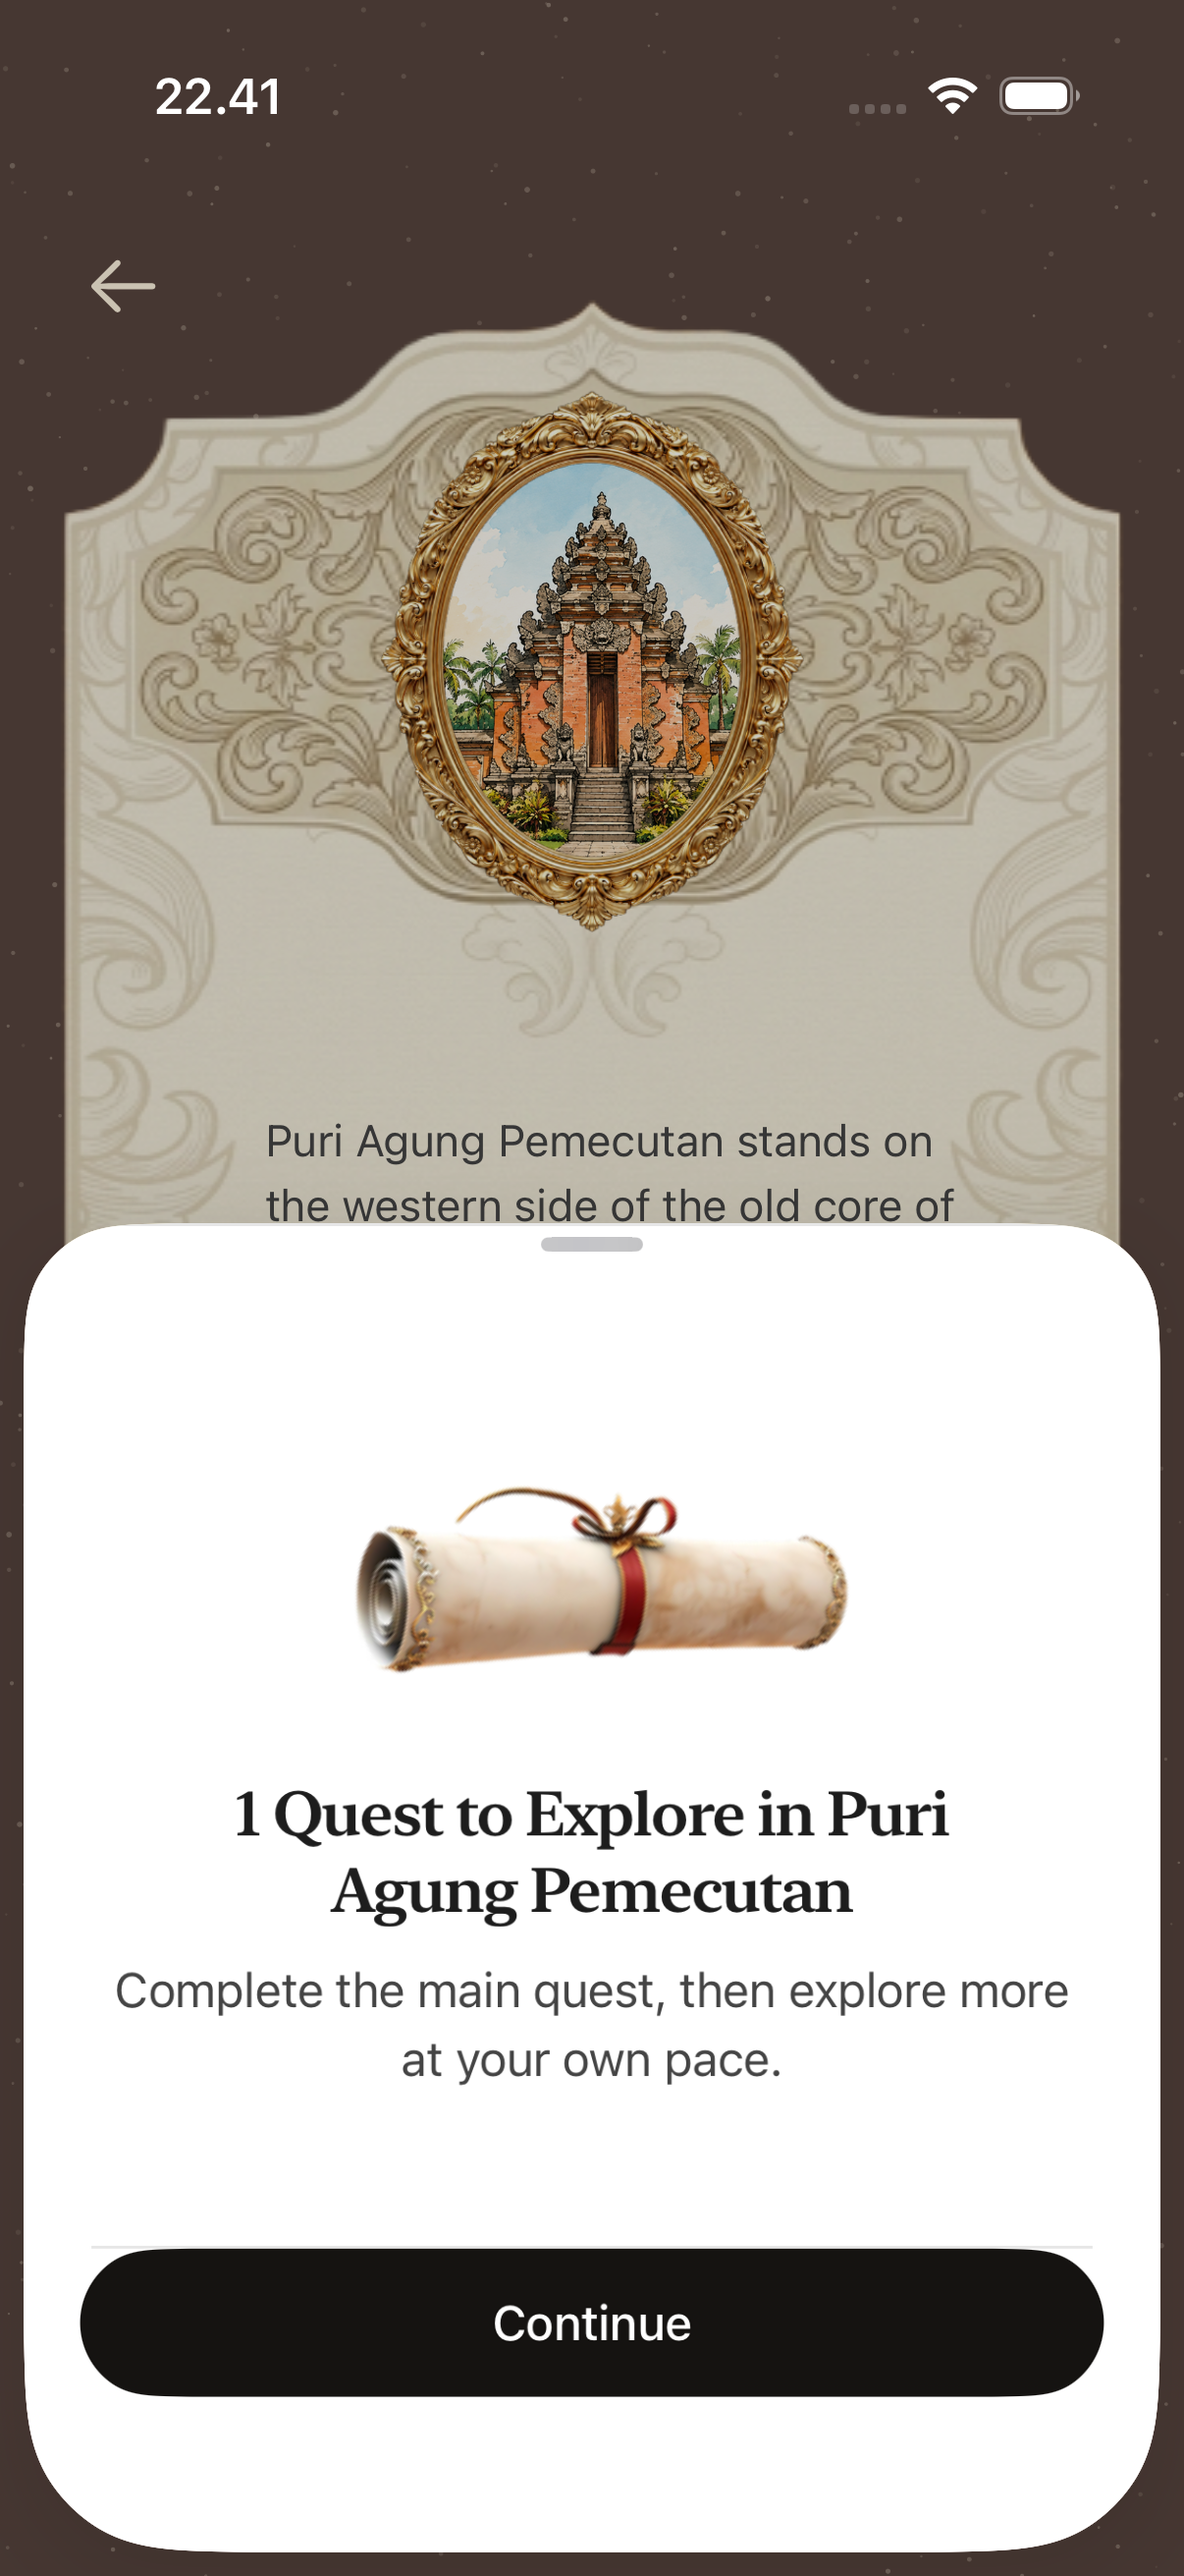
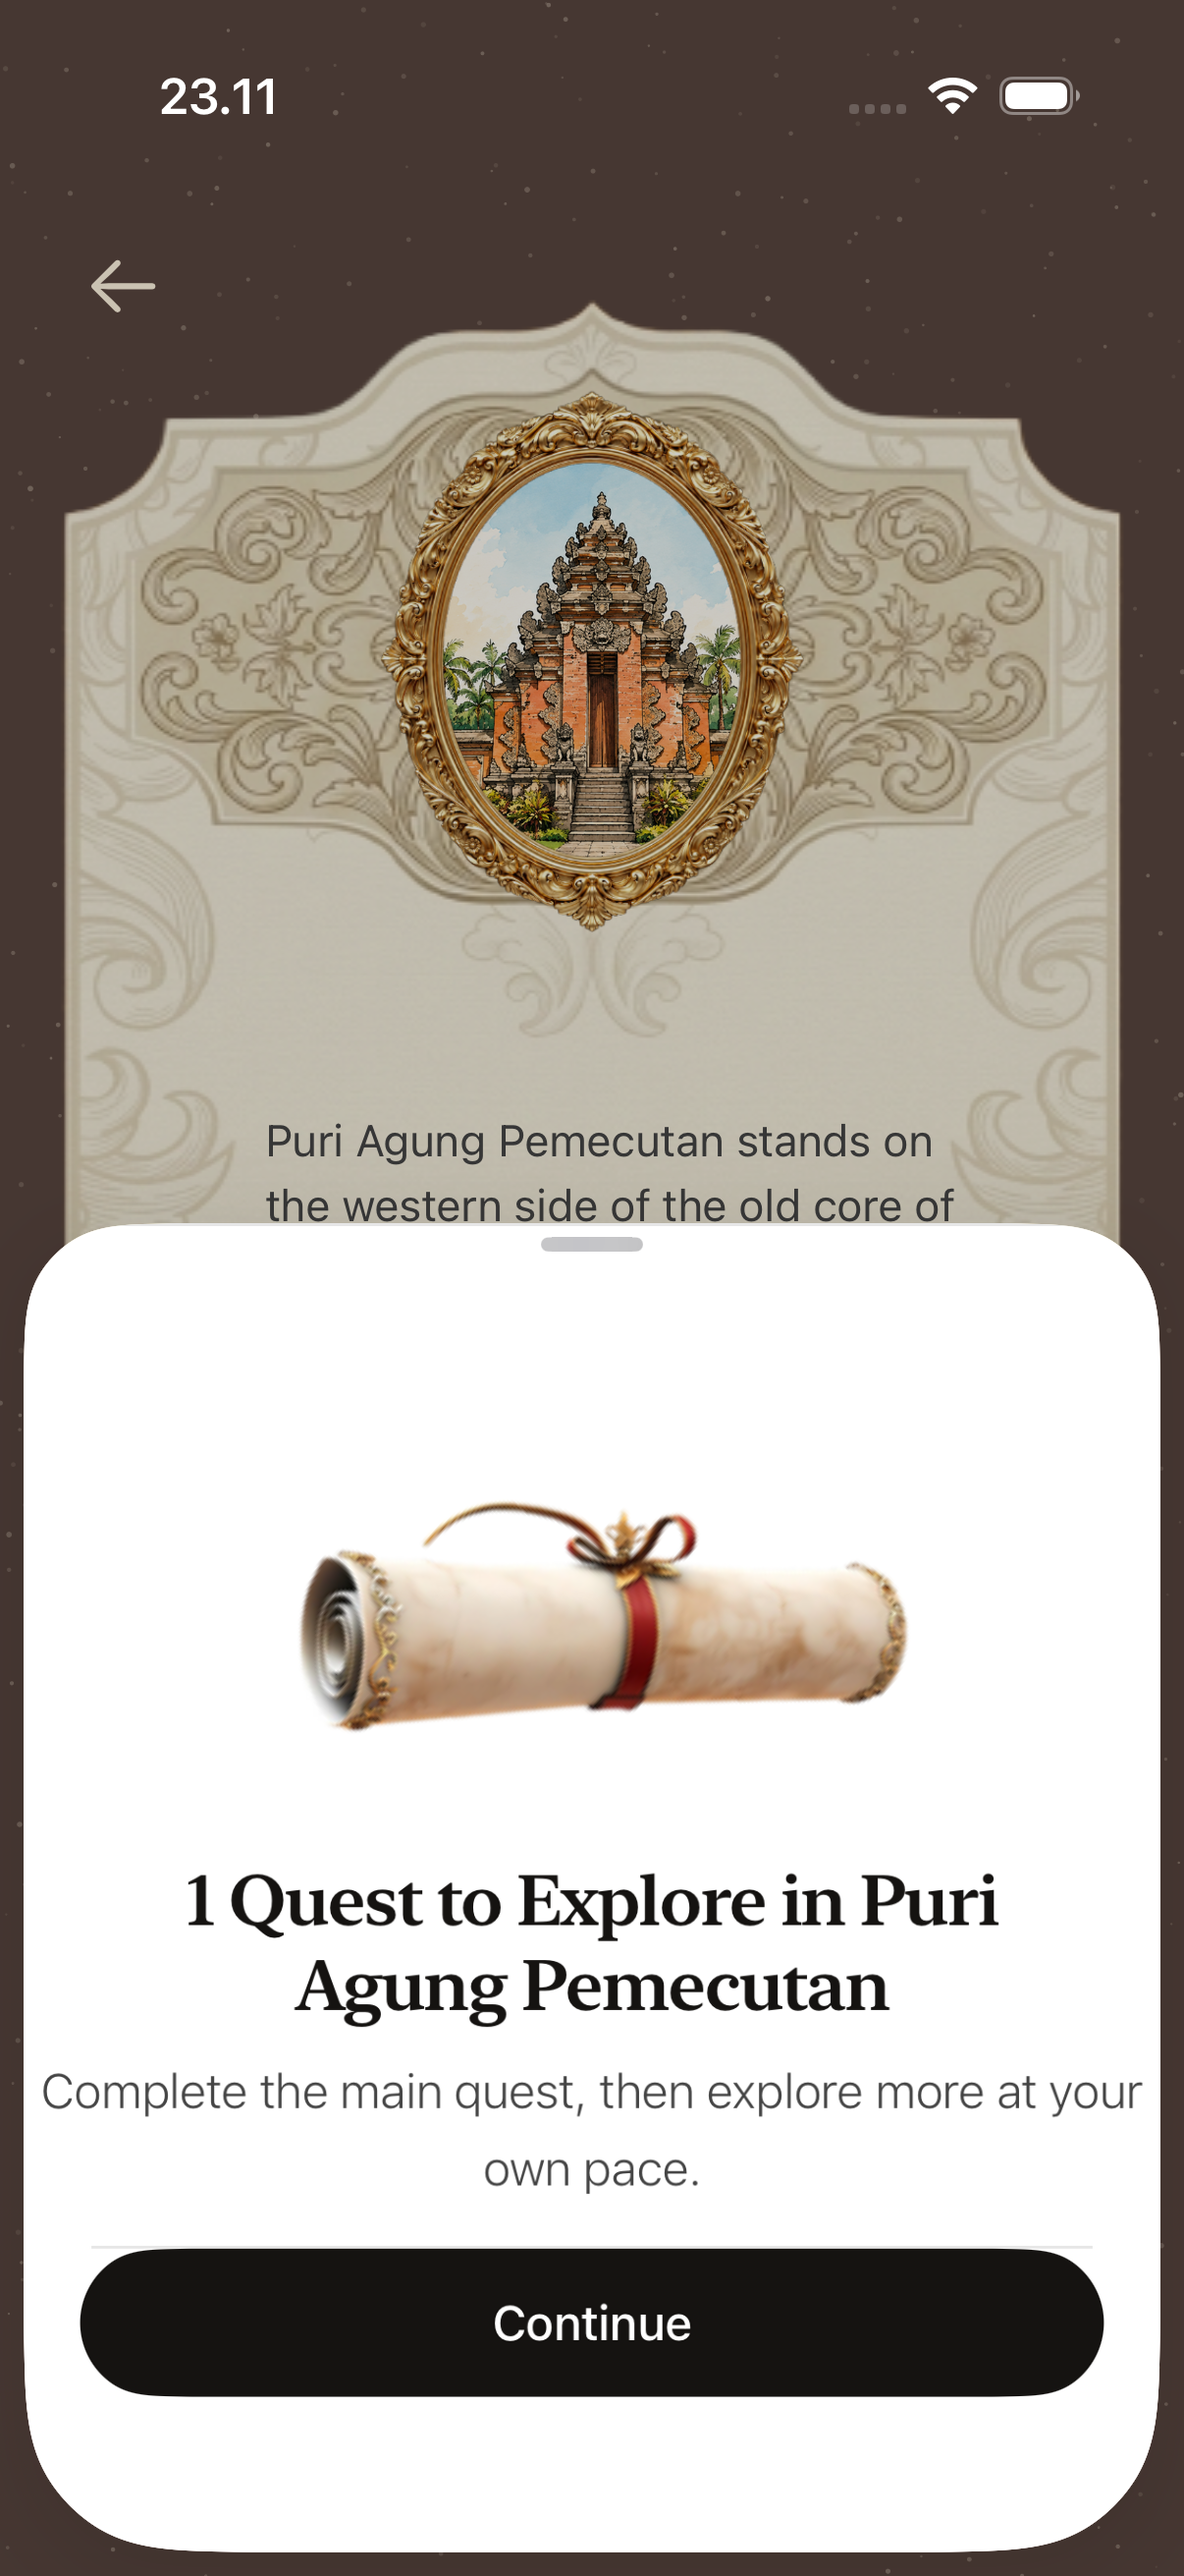
Make the availability sheet frame-exact: full-size scroll, frame type
Owner instruction of 2026-08-23 ("need to follow all even the text,
weight, all"). The scroll returns to the frame's full 194 points — the
268 x 267 rotated bounding box — with the headline pulled up the
frame's 56, and the Middle block's 12/2 rhythm replaces the scaled
23/45. The headline is New York Semibold 25 with -0.5 tracking in the
frame's own #151311 (not inkDark #1D1D1D) on a fixed 308 column; the
subtitle is SF Pro 17 Light with 1.4 leading in inkBody #444444.
@ScaledMetric backs both sizes so Dynamic Type still moves them — a
walker at the largest sizes drags to .large, which stays offered.

Verified on iPhone 17 / iOS 26.5; screenshot replaced, capture test
deleted with the commit.

diff --git a/challange-5/challange-5/Features/QuestRun/QuestAvailabilityScreen.swift b/challange-5/challange-5/Features/QuestRun/QuestAvailabilityScreen.swift
@@ -3,9 +3,9 @@ import DesignSystem
 import SwiftUI
 import UIStringsKit
 
-/// `921:3851` ("Quest - Card") — the sheet reached straight off a checkpoint's first explanation
-/// (the place notice at a sacred Place, the story reveal everywhere else), naming how many quests
-/// stand at this place before the sealed scroll opens the walk itself.
+/// `921:3851`/`921:3462` ("Quest - Card") — the sheet reached straight off a checkpoint's first
+/// explanation (the place notice at a sacred Place, the story reveal everywhere else), naming how
+/// many quests stand at this place before the sealed scroll opens the walk itself.
 ///
 /// Presented as a `.sheet()` over whichever screen it was reached from — see
 /// `QuestRunViewModel.isPresentingQuestAvailability` for why this is not its own `Stage` case: the
@@ -16,34 +16,33 @@ import UIStringsKit
 /// task count (`FR-TASK-06`), so it says "1 Quest" for every place the shipped content carries
 /// today rather than a number nothing backs (`AD-4`).
 ///
-/// **Two deviations from the frame, both the owner's instruction of 2026-08-23.** The sheet stands
-/// at half screen (`.medium` first detent, `921:3870`'s own 540 of 874 is nearer two thirds) and
-/// its ground is **white**, not this direction's cream — `921:3870`'s own fill is
-/// `backgrounds/primary---elevated = white`. The palette has no white token, so the view takes
-/// `Color.white` directly; the inks stay palette tokens, and both read *better* on white than on
-/// `paperSheet` (white is strictly brighter than #FDF2DE, so every measured pair only widens).
+/// **Frame-exact by the owner's instruction of 2026-08-23** ("need to follow all even the text,
+/// weight, all"): the scroll at the frame's full 194 points with its 268 × 267 rotated bounding
+/// box, the headline pulled up 56 into it, the Middle block's 12/−56/2 rhythm, the title at New
+/// York Semibold 25 with −0.5 tracking in the frame's own #151311, the subtitle at SF Pro 17
+/// Light with 1.4 leading in #444444, and both hairlines. Three things stay native or scaled:
+/// the sheet stands at `.medium` (437 of the frame's 540 — the same half-screen instruction),
+/// the button is the direction's shared pill style (54 tall where the frame draws 58), and
+/// `@ScaledMetric` backs both type sizes so Dynamic Type still moves them; a walker at the
+/// largest sizes drags to `.large`, which is why that detent stays offered.
 struct QuestAvailabilityScreen: View {
     @Environment(\.hisploraPalette) private var palette
 
-    let language: ContentLanguage
-    let title: String
-    let onContinue: () -> Void
+    /// The frame's own 194-point scroll; its rotated bounding box is the 268 × 267 container.
+    private static let glyphWidth: CGFloat = 194
 
-    /// The scroll at the size half a screen holds. `921:3869` draws it 194 wide inside a 540-point
-    /// sheet; scaled to the `.medium` detent the same fraction of the sheet is 157.
-    private static let glyphWidth: CGFloat = 157
+    /// `921:3468` hangs the headline 56 up into the tilted scroll's bounding box — the box's
+    /// lower corners are empty paper-shadow space, and the roll end is what the words sit under.
+    private static let titleOverlap: CGFloat = 56
 
-    /// `921:3869` hangs its headline 56 points up into the tilted scroll's bounding box — the
-    /// box's lower corners are empty paper-shadow space, and the roll end is what the words sit
-    /// under. Without this pull-up a centred column reads a full corner of air below the picture.
-    /// Scaled with the glyph to the half-screen sheet (56 × 437/540).
-    private static let titleOverlap: CGFloat = 45
+    /// `921:3467`'s Middle block: 12 above, 2 below, the headline 56 into the glyph.
+    private static let middleTopPadding: CGFloat = 12
+    private static let middleBottomPadding: CGFloat = 2
 
-    /// `921:3869`'s own 28 (Header 16 + Middle 12) scaled to the half-height sheet (× 437/540).
-    private static let glyphTopPadding: CGFloat = 23
+    /// The frame sets the title column to 308 of the 402 screen.
+    private static let titleWidth: CGFloat = 308
 
-    /// The frame's button is 362 of a 402 screen — a 20-point side margin, kept absolute because
-    /// width does not shrink with the sheet.
+    /// The frame's button is 362 of a 402 screen — a 20-point side margin.
     private static let buttonSidePadding: CGFloat = 20
 
     /// The frame hangs its button 55 above the sheet's bottom edge; the sheet's own home-indicator
@@ -55,6 +54,17 @@ struct QuestAvailabilityScreen: View {
     /// white ground above.
     private static let separatorInk = Color(red: 0xE6 / 255, green: 0xE6 / 255, blue: 0xE6 / 255)
 
+    /// The frame's headline is New York Extra Large Semibold 25 — the serif design at a display
+    /// optical size. `@ScaledMetric` keeps it at 25 by default and lets Dynamic Type move it.
+    @ScaledMetric(relativeTo: .title) private var titleSize: CGFloat = 25
+
+    /// The frame's subtitle is SF Pro Display Light 17 with 1.4 leading.
+    @ScaledMetric(relativeTo: .body) private var subtitleSize: CGFloat = 17
+
+    let language: ContentLanguage
+    let title: String
+    let onContinue: () -> Void
+
     var body: some View {
         VStack(spacing: 0) {
             separator
@@ -62,29 +72,27 @@ struct QuestAvailabilityScreen: View {
             HisploraAvailabilityGlyph(
                 width: Self.glyphWidth,
                 tiltDegrees: HisploraScrollArt.mapHintTiltDegrees)
-                .padding(.top, Self.glyphTopPadding)
+                .padding(.top, Self.middleTopPadding)
                 .padding(.bottom, -Self.titleOverlap)
 
             VStack(spacing: KultaraMetrics.md) {
                 Text(title)
-                    // New York Semibold — `921:3877`'s headline face, which is the role
-                    // `.storyTaskTitle` already decides (display serif, semibold, `.title2`).
-                    .kultaraFont(.storyTaskTitle)
+                    .font(.system(size: titleSize, weight: .semibold, design: .serif))
                     .tracking(-0.5)
                     .multilineTextAlignment(.center)
-                    .foregroundStyle(palette.inkDark.color)
+                    .foregroundStyle(Color(red: 21 / 255, green: 19 / 255, blue: 17 / 255))
+                    .frame(width: Self.titleWidth)
 
                 Text(UIStrings.string(.questAvailabilitySubtitle, language))
-                    // The frame sets SF Pro Display *Light*; the table carries no light cut, so
-                    // this is `body` regular in the same ink — `inkBody` is #444444, the frame's
-                    // own value exactly.
-                    .kultaraFont(.body)
+                    .font(.system(size: subtitleSize, weight: .light))
+                    .lineSpacing(subtitleSize * 0.4)
                     .multilineTextAlignment(.center)
                     .foregroundStyle(palette.inkBody.color)
+                    .frame(maxWidth: .infinity)
             }
-            .padding(.horizontal, KultaraMetrics.xl)
+            .padding(.bottom, Self.middleBottomPadding)
 
-            Spacer(minLength: KultaraMetrics.lg)
+            Spacer(minLength: KultaraMetrics.sm)
 
             separator
 
